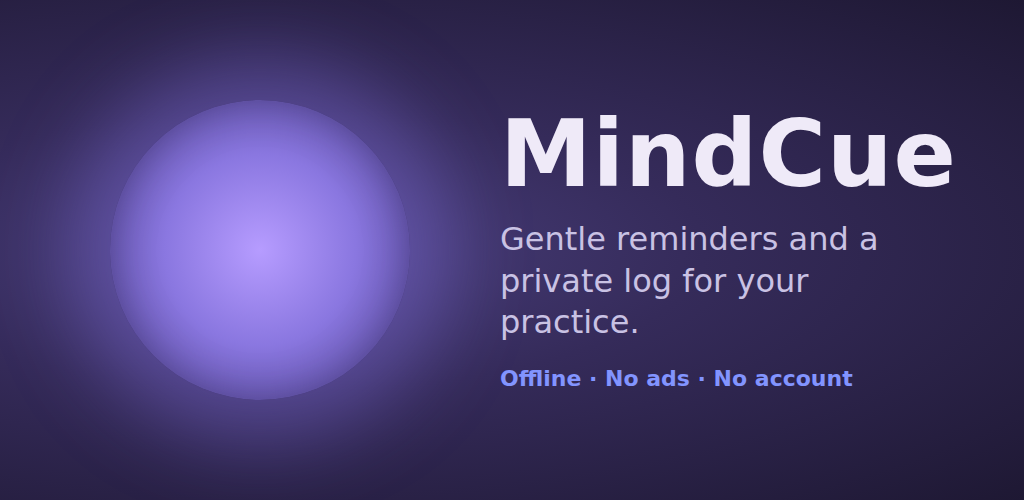
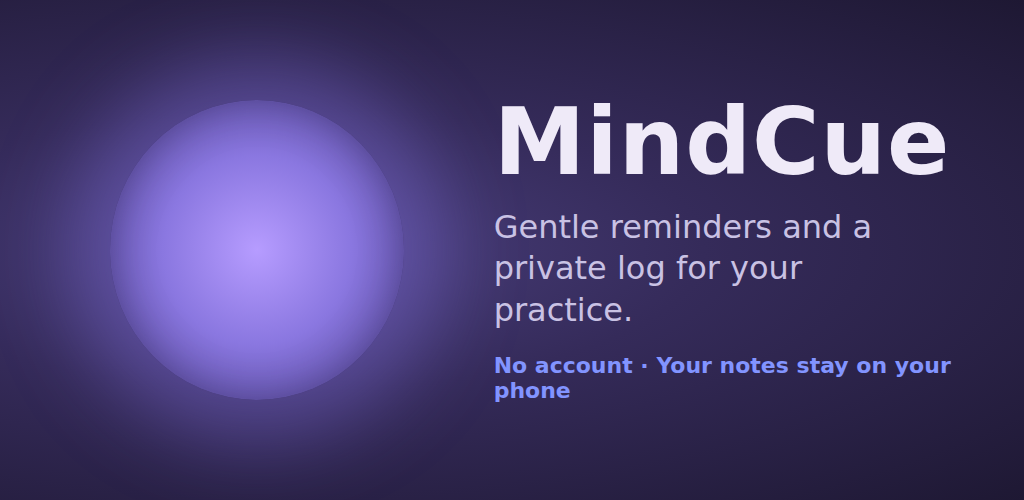
Ads for the Play build, purchase removes ads, privacy policy updated
* Ads for the Play build (AdMob banner on the Practice and Info lists, rewarded ad to open one advanced practice for a day); purchase removes ads; privacy policy and listing text updated

Claude-Session: https://claude.ai/code/session_01FQKSugdDMMnd2ED1RsEdQ3

* Real AdMob ids; the Play bundle turns test mode off by itself

Claude-Session: https://claude.ai/code/session_01FQKSugdDMMnd2ED1RsEdQ3

---------

Changed region(s): [[0.4688, 0.42, 0.875, 0.69], [0.4688, 0.21, 0.9375, 0.39], [0.4688, 0.72, 0.9375, 0.81]]

diff --git a/docs/app.js b/docs/app.js
@@ -1,12 +1,12 @@
 import { CATS, EXERCISES, MILESTONES, exById, CHAKRAS, CHAKRA_INTRO, CYCLES, REMIND_GROUPS, CAT_LABEL, REMIND_DEFAULTS, NUDGES, PING, SCALE, SCALE_UP } from './content.js';
 import * as native from './native.js';
 import { BUILD } from './build.js';
-import { PAYWALL } from './config.js';
+import { PAYWALL, ADS, ADMOB } from './config.js';
 
 /* ---------------- storage ---------------- */
 const KEY = 'mindful-v2';
 const clone = (o) => JSON.parse(JSON.stringify(o)); // older phone web engines lack structuredClone
-const fresh = () => ({ rem: clone(REMIND_DEFAULTS), milestones: {}, sessions: [], recalls: [], tally: {}, days: {}, unlocked: false, tourSeen: false, fast: { on: false, days: 3, start: '', done: {} }, scale: [], wheels: [], loops: {} });
+const fresh = () => ({ rem: clone(REMIND_DEFAULTS), milestones: {}, sessions: [], recalls: [], tally: {}, days: {}, unlocked: false, tourSeen: false, adPass: null, fast: { on: false, days: 3, start: '', done: {} }, scale: [], wheels: [], loops: {} });
 let S;
 try { S = { ...fresh(), ...JSON.parse(localStorage.getItem(KEY) || '{}') }; } catch (e) { S = fresh(); }
 // Brings saved settings (including older versions' shapes) up to the current shape.
@@ -98,7 +98,9 @@ const catCount = (gid, day = dayKey()) => {
 };
 const catDone = (gid, day = dayKey()) => catCount(gid, day) >= S.rem.cat[gid].goal;
 const canLeave = () => native.isNative && !!S.rem.home;
-const locked = (id) => PAYWALL && !S.unlocked && !!exById[id]?.premium; // advanced teachings in a store build, until unlocked
+const adsOn = () => ADS && native.isNative && !S.unlocked; // ads only in the store build, and never after the purchase
+const passed = (id) => !!S.adPass && S.adPass.day === dayKey() && S.adPass.ids.includes(id); // opened for today by watching an ad
+const locked = (id) => PAYWALL && !S.unlocked && !!exById[id]?.premium && !passed(id); // advanced teachings in a store build, until unlocked
 const schedEx = (gid) => S.rem.cat[gid].ex.filter((id) => group(gid).pool.includes(id) && !locked(id)); // exercises that ring at scheduled times (not leave-home ones)
 const choosing = (gid) => !S.rem.cat[gid].random && schedEx(gid).length > 1; // several to do: the reminder opens the list
 const todayPick = (gid) => (schedEx(gid).length ? planned(gid) : S.rem.cat[gid].ex[0]);
@@ -386,7 +388,7 @@ function Tour() {
   ${sec('Info', 'Reading, not doing: the universal laws, the Do\'s and Don\'ts, supporting habits, life cycles, the chakra reference, and the credits.')}
   ${sec('Settings', 'Where you set it up your way. Choose which exercises count as goals for each area, how many reminders you want and when, the leave-home reminders, the funk playlist, the mindfulness sayings, and your backup. The small <b>Log</b> button in the top right corner opens your log.')}
   ${sec('Log', '<b>Entries</b> are your notes and recalls. <b>Days</b> is one button per day showing what you finished, what you did not, and your notes. <b>Progress</b> shows your streak and trends.')}
-  ${sec('Private by design', 'Everything stays on your phone. There is no account, no ads, and nothing is sent anywhere. It works offline.')}`;
+  ${sec('Private by design', 'Your notes, logs and goals stay on your phone. There is no account. The free Play Store version shows a few ads on the Practice and Info lists (a one-time purchase removes them and unlocks the advanced teachings); your own entries are never sent to anyone.')}`;
 }
 function Info() {
   const ids = ['live-dos', 'energy-habits'].map((id) => exById[id]).map((e) => link(`#ex/${e.id}`, `<b>${esc(e.title)}</b><div class="dim sm">${esc(e.summary)}</div>`)).join('');
@@ -398,16 +400,18 @@ function Info() {
   ${link('#chakras', '<b>Chakra reference</b><div class="dim sm">Seven chakras, seed sounds, glands</div>')}
   ${link('#about', '<b>Credits</b><div class="dim sm">With gratitude</div>')}`;
 }
-function Unlock() {
+function Unlock(id) {
+  const ex = exById[id];
   return `${back('#practice')}<h1>Unlock the advanced teachings</h1>
-  ${card('<div class="step" style="font-size:17px">One purchase, once, no subscription. It opens the Psychic centers, the chakra meditations, the Inner journeys (including the past-life journey), and the projections (astral).<br><br>Everything else in MindCue stays free.</div>', 'accent')}
-  <button class="btn" data-act="buyunlock">Unlock</button>
+  ${card('<div class="step" style="font-size:17px">One purchase, once, no subscription. It opens the Psychic centers, the chakra meditations, the Inner journeys (including the past-life journey), and the projections (astral), and it removes the ads.<br><br>Everything else in MindCue stays free.</div>', 'accent')}
+  <button class="btn" data-act="buyunlock">Unlock everything</button>
+  ${adsOn() && ex ? `<button class="btn ghost" data-act="watchad:${id}">Watch a short ad to open “${esc(ex.title)}” for today</button>` : ''}
   <button class="btn ghost" data-act="restoreunlock">Restore a purchase</button>
   <div id="msg" class="warn sm"></div>`;
 }
 const advOk = new Set(); let warnStep = 1;
 function Practice() {
-  const row = (e) => link(locked(e.id) ? '#unlock' : `#ex/${e.id}`, `<b>${locked(e.id) ? '🔒 ' : ''}${esc(e.title)}</b><div class="dim sm">${esc(e.freq)}</div>`);
+  const row = (e) => link(locked(e.id) ? `#unlock/${e.id}` : `#ex/${e.id}`, `<b>${locked(e.id) ? '🔒 ' : ''}${esc(e.title)}</b><div class="dim sm">${esc(e.freq)}</div>`);
   const ids = (list) => list.map((id) => exById[id]).filter(Boolean).map(row).join('');
   const cats = (cat, skip = []) => EXERCISES.filter((e) => e.cat === cat && !e.hidden && !skip.includes(e.id)).map(row).join('');
   const sub = (label, inner) => (inner ? `<h3>${label}</h3>${inner}` : '');
@@ -693,9 +697,9 @@ function paint() {
     case 'practice': h = Practice(); break;
     case 'info': h = Info(); break;
     case 'tour': S.tourSeen = true; save(); h = Tour(); break;
-    case 'ex': h = locked(a) ? Unlock() : exById[a] && exById[a].advanced && !advOk.has(a) ? Warn(a) : Exercise(a); break;
-    case 'unlock': h = Unlock(); break;
-    case 'guide': if (locked(a)) { h = Unlock(); break; } if (!G || G.ex.id !== a) { if (exById[a]) startGuide(a); } h = Guide(); break;
+    case 'ex': h = locked(a) ? Unlock(a) : exById[a] && exById[a].advanced && !advOk.has(a) ? Warn(a) : Exercise(a); break;
+    case 'unlock': h = Unlock(a); break;
+    case 'guide': if (locked(a)) { h = Unlock(a); break; } if (!G || G.ex.id !== a) { if (exById[a]) startGuide(a); } h = Guide(); break;
     case 'log': h = Log(); break;
     case 'note': h = NoteForm(a); break;
     case 'recall': h = RecallForm(); break;
@@ -715,6 +719,7 @@ function paint() {
   const tab = ['today', 'practice', 'info', 'settings'].includes(route) ? route : route === 'cat' ? 'today' : route === 'tour' || route === 'laws' || route === 'chakras' || route === 'cycles' || route === 'about' || (route === 'ex' && ['live-dos', 'energy-habits'].includes(a)) ? 'info' : route === 'ex' || route === 'unlock' || route === 'scale' || route === 'wheel' || route === 'guide' ? 'practice' : 'settings'; // Log, notes and day pages are reached from Settings
   document.querySelectorAll('#tabs a').forEach((el) => el.classList.toggle('on', el.dataset.tab === tab));
   const rs = $('#restore'); if (rs) rs.onchange = restore;
+  if (adsOn() && ['practice', 'info'].includes(route)) { $('#view').insertAdjacentHTML('beforeend', '<div style="height:70px"></div>'); native.showBanner(ADMOB, 56); } else native.hideBanner(); // a banner only on the Practice and Info lists, never during practice
   window.scrollTo(0, 0);
 }
 function repaintKeep() { const y = window.scrollY; paint(); window.scrollTo(0, y); }
@@ -800,7 +805,8 @@ document.addEventListener('click', async (e) => {
     case 'wload': wh = JSON.parse(JSON.stringify(S.wheels.find((w) => w.id === a))); paint(); break;
     case 'wdel': if (confirm('Delete this wheel?')) { S.wheels = S.wheels.filter((w) => w.id !== a); if (wh && wh.id === a) wh = null; save(); repaintKeep(); } break;
     case 'tourhide': S.tourSeen = true; save(); repaintKeep(); break;
-    case 'buyunlock': try { await native.buyUnlock(); S.unlocked = true; save(); location.hash = '#practice'; } catch (err) { msg("Purchases aren't switched on yet."); } break;
+    case 'watchad': try { await native.rewardedAd(ADMOB); const t = S.adPass && S.adPass.day === dayKey() ? S.adPass : { day: dayKey(), ids: [] }; if (!t.ids.includes(a)) t.ids.push(a); S.adPass = t; save(); location.hash = `#ex/${a}`; } catch (err) { msg("The ad could not play right now. Check your connection and try again, or watch it to the end."); } break;
+    case 'buyunlock': try { await native.buyUnlock(); S.unlocked = true; save(); native.hideBanner(); location.hash = '#practice'; } catch (err) { msg("Purchases aren't switched on yet."); } break;
     case 'restoreunlock': try { await native.restoreUnlock(); S.unlocked = true; save(); location.hash = '#practice'; } catch (err) { msg("Nothing to restore yet."); } break;
     case 'warn1': warnStep = 2; paint(); break;
     case 'warn2': advOk.add(a); warnStep = 1; paint(); break;

diff --git a/docs/privacy.html b/docs/privacy.html
@@ -5,9 +5,14 @@
 <body>
 <h1>MindCue privacy policy</h1>
 <p>Last updated: October 2026</p>
-<p>MindCue is a reminder and journal app for mindfulness practice. <b>It collects no data about you.</b> It has no accounts, no ads, no analytics, and it never sends anything to a server. The app does not use the internet.</p>
+<p>MindCue is a reminder and journal app for mindfulness practice. <b>We, the developer, receive none of your data.</b> There are no accounts, and your notes, logs and settings never leave your phone.</p>
 <h2>What stays on your phone</h2>
-<p>Your settings, notes, evening recalls and daily history are saved only inside the app on your phone. If you delete the app or clear its data, they are gone. We cannot see or recover them.</p>
+<p>Your goals, notes, evening recalls, daily history and settings are saved only inside the app on your phone. If you delete the app or clear its data, they are gone. We cannot see or recover them.</p>
+<h2>Ads (Google Play version, free tier)</h2>
+<p>The free version of MindCue on Google Play shows ads, served by <b>Google AdMob</b>. To show ads, Google and its ad partners may collect and use your device's <b>advertising ID</b>, IP address, and device and app-usage information, and may use cookies or similar technology. We do not give Google your notes, logs, goals or location, and the ad service does not receive them from us. In Europe and the UK the app first asks for your consent. You can change your choice, or reset or turn off personalized ads, in your phone's Settings → Google → Ads. See <a href="https://policies.google.com/technologies/ads">Google's advertising policy</a> and <a href="https://policies.google.com/privacy">privacy policy</a>.</p>
+<p>The one-time purchase that unlocks the advanced teachings also removes the ads. The copy of MindCue you download directly from our website contains no ads and sends nothing anywhere.</p>
+<h2>Purchases</h2>
+<p>Purchases are handled entirely by Google Play. We do not see your payment details.</p>
 <h2>Location</h2>
 <p>If you turn on the "when you leave home" reminders, the app saves the spot where you tapped <i>Set my home here</i> on your phone. It asks your phone's built-in geofencing service to tell it when you leave that area, which is why Android asks for location "all the time". Your location is never sent anywhere, never shared, and not kept as a history. You can switch this off at any time in Settings.</p>
 <h2>Notifications and alarms</h2>
@@ -15,7 +20,7 @@
 <h2>Backups</h2>
 <p>The backup button in Settings makes a file only when you press it. Where it goes (for example your own email or cloud drive) is up to you.</p>
 <h2>Children</h2>
-<p>The app is not directed to children and collects nothing from anyone.</p>
+<p>The app is not directed to children under 13 and we do not knowingly collect anything from them.</p>
 <h2>Not medical care</h2>
 <p>MindCue supports a practice. It is not medical care and does not replace a counselor or doctor.</p>
 <h2>Contact</h2>

diff --git a/share/landing/privacy.html b/share/landing/privacy.html
@@ -5,9 +5,14 @@
 <body>
 <h1>MindCue privacy policy</h1>
 <p>Last updated: October 2026</p>
-<p>MindCue is a reminder and journal app for mindfulness practice. <b>It collects no data about you.</b> It has no accounts, no ads, no analytics, and it never sends anything to a server. The app does not use the internet.</p>
+<p>MindCue is a reminder and journal app for mindfulness practice. <b>We, the developer, receive none of your data.</b> There are no accounts, and your notes, logs and settings never leave your phone.</p>
 <h2>What stays on your phone</h2>
-<p>Your settings, notes, evening recalls and daily history are saved only inside the app on your phone. If you delete the app or clear its data, they are gone. We cannot see or recover them.</p>
+<p>Your goals, notes, evening recalls, daily history and settings are saved only inside the app on your phone. If you delete the app or clear its data, they are gone. We cannot see or recover them.</p>
+<h2>Ads (Google Play version, free tier)</h2>
+<p>The free version of MindCue on Google Play shows ads, served by <b>Google AdMob</b>. To show ads, Google and its ad partners may collect and use your device's <b>advertising ID</b>, IP address, and device and app-usage information, and may use cookies or similar technology. We do not give Google your notes, logs, goals or location, and the ad service does not receive them from us. In Europe and the UK the app first asks for your consent. You can change your choice, or reset or turn off personalized ads, in your phone's Settings → Google → Ads. See <a href="https://policies.google.com/technologies/ads">Google's advertising policy</a> and <a href="https://policies.google.com/privacy">privacy policy</a>.</p>
+<p>The one-time purchase that unlocks the advanced teachings also removes the ads. The copy of MindCue you download directly from our website contains no ads and sends nothing anywhere.</p>
+<h2>Purchases</h2>
+<p>Purchases are handled entirely by Google Play. We do not see your payment details.</p>
 <h2>Location</h2>
 <p>If you turn on the "when you leave home" reminders, the app saves the spot where you tapped <i>Set my home here</i> on your phone. It asks your phone's built-in geofencing service to tell it when you leave that area, which is why Android asks for location "all the time". Your location is never sent anywhere, never shared, and not kept as a history. You can switch this off at any time in Settings.</p>
 <h2>Notifications and alarms</h2>
@@ -15,7 +20,7 @@
 <h2>Backups</h2>
 <p>The backup button in Settings makes a file only when you press it. Where it goes (for example your own email or cloud drive) is up to you.</p>
 <h2>Children</h2>
-<p>The app is not directed to children and collects nothing from anyone.</p>
+<p>The app is not directed to children under 13 and we do not knowingly collect anything from them.</p>
 <h2>Not medical care</h2>
 <p>MindCue supports a practice. It is not medical care and does not replace a counselor or doctor.</p>
 <h2>Contact</h2>

diff --git a/docs/native.js b/docs/native.js
@@ -5,6 +5,7 @@ export const isNative = !!cap?.isNativePlatform?.() && typeof cap.registerPlugin
 const LN = isNative ? cap.registerPlugin('LocalNotifications') : null;
 const BG = isNative ? cap.registerPlugin('BackgroundGeolocation') : null;
 const FENCE = isNative ? cap.registerPlugin('LeaveFence') : null;
+const AD = isNative ? cap.registerPlugin('AdMob') : null;
 export const isIOS = isNative && cap.getPlatform?.() === 'ios';
 
 // Notification buttons on exercise reminders.
@@ -92,3 +93,41 @@ export function onRoute(fn) {
 // One-time "unlock the advanced teachings" purchase. The store billing is hooked up here when the app is published.
 export async function buyUnlock() { throw new Error('not-ready'); }
 export async function restoreUnlock() { throw new Error('not-ready'); }
+
+/* ---------- ads (Play build only, and never for people who bought the unlock) ---------- */
+let adReady = null;
+export function initAds(cfg) {
+  if (!AD) return Promise.resolve(false);
+  if (!adReady) adReady = (async () => {
+    try {
+      const info = await AD.requestConsentInfo(); // the EU / UK consent form, when it is required
+      if (info.isConsentFormAvailable && info.status === 'REQUIRED') await AD.showConsentForm();
+      await AD.initialize({ initializeForTesting: !!cfg.isTesting });
+      return true;
+    } catch (e) { return false; }
+  })();
+  return adReady;
+}
+export async function showBanner(cfg, margin) {
+  if (!(await initAds(cfg))) return;
+  try { await AD.showBanner({ adId: cfg.banner, adSize: 'ADAPTIVE_BANNER', position: 'BOTTOM_CENTER', margin, isTesting: !!cfg.isTesting }); } catch (e) {}
+}
+export async function hideBanner() {
+  if (!AD || !adReady) return;
+  try { await AD.removeBanner(); } catch (e) {}
+}
+// Resolves when the person watched the ad to the end; rejects if it could not play or was closed early.
+export async function rewardedAd(cfg) {
+  if (!(await initAds(cfg))) throw new Error('ads-unavailable');
+  await AD.prepareRewardVideoAd({ adId: cfg.rewarded, isTesting: !!cfg.isTesting });
+  let earned = false;
+  const a = await AD.addListener('onRewardedVideoAdReward', () => { earned = true; });
+  try {
+    await new Promise(async (resolve, reject) => {
+      const b = await AD.addListener('onRewardedVideoAdDismissed', () => { b.remove(); resolve(); });
+      try { await AD.showRewardVideoAd(); } catch (e) { b.remove(); reject(e); }
+    });
+  } finally { a.remove(); }
+  if (!earned) throw new Error('closed-early');
+  return true;
+}

diff --git a/ios/App/CapApp-SPM/Package.swift b/ios/App/CapApp-SPM/Package.swift
@@ -12,6 +12,7 @@ let package = Package(
     ],
     dependencies: [
         .package(url: "https://github.com/ionic-team/capacitor-swift-pm.git", exact: "8.5.3"),
+        .package(name: "CapacitorCommunityAdmob", path: "../../../node_modules/@capacitor-community/admob"),
         .package(name: "CapacitorCommunityBackgroundGeolocation", path: "../../../node_modules/@capacitor-community/background-geolocation"),
         .package(name: "CapacitorLocalNotifications", path: "../../../node_modules/@capacitor/local-notifications")
     ],
@@ -21,6 +22,7 @@ let package = Package(
             dependencies: [
                 .product(name: "Capacitor", package: "capacitor-swift-pm"),
                 .product(name: "Cordova", package: "capacitor-swift-pm"),
+                .product(name: "CapacitorCommunityAdmob", package: "CapacitorCommunityAdmob"),
                 .product(name: "CapacitorCommunityBackgroundGeolocation", package: "CapacitorCommunityBackgroundGeolocation"),
                 .product(name: "CapacitorLocalNotifications", package: "CapacitorLocalNotifications")
             ]

diff --git a/docs/config.js b/docs/config.js
@@ -1,2 +1,10 @@
-// Switched on only in the store (Play / App Store) builds. The free download from the landing page leaves it off.
-export const PAYWALL = false;
+// Switched on only in the store (Play / App Store) builds. The free download from the landing page leaves both off.
+export const PAYWALL = false; // locks the advanced teachings until a one-time purchase
+export const ADS = false; // shows ads to people who have not bought the unlock
+
+// Your real AdMob ad unit ids. (The AdMob app id is in android/app/src/main/res/values/strings.xml.)
+export const ADMOB = {
+  banner: 'ca-app-pub-3228808449104650/3059916711',
+  rewarded: 'ca-app-pub-3228808449104650/3266221263',
+  isTesting: true, // keep true here: the Play bundle build switches it to false automatically, so no test ads reach real users
+};

diff --git a/share/landing/index.html b/share/landing/index.html
@@ -25,5 +25,5 @@ b{color:#fff}.warn{border:2px solid var(--peri)}.foot{color:var(--dim);font-size
 </ol>
 <p>Then open MindCue and tap <b>Allow notifications</b>. That's how it reminds you.</p>
 <p>Updating? Download again and install it the same way. Your notes and settings stay.</p>
-<p class="foot">MindCue supports a practice. It is not medical care and does not replace a counselor or doctor.<br><a href="privacy.html">Privacy: it collects nothing</a> · Support: <a href="mailto:lyakgodzilla@gmail.com">lyakgodzilla@gmail.com</a></p>
+<p class="foot">MindCue supports a practice. It is not medical care and does not replace a counselor or doctor.<br><a href="privacy.html">Privacy policy</a> · Support: <a href="mailto:lyakgodzilla@gmail.com">lyakgodzilla@gmail.com</a></p>
 </main></body></html>

diff --git a/docs/sw.js b/docs/sw.js
@@ -1,4 +1,4 @@
-const V = 'mindcue-v13';
+const V = 'mindcue-v14';
 const FILES = ['./', 'index.html', 'style.css', 'app.js', 'content.js', 'native.js', 'build.js', 'capacitor.js', 'manifest.webmanifest', 'icon-192.png', 'icon-512.png'];
 
 self.addEventListener('install', (e) => {

diff --git a/share/play-store-steps.md b/share/play-store-steps.md
@@ -37,7 +37,7 @@ MindCue helps you build a daily mindfulness and meditation practice, privately.
 • A library of guided practices: meditation, observation and concentration exercises, emotional tools, bedtime practices, energy and healing, and more. Gentle timers and an optional buzz keep you on track.
 • Climb the Scale and the Focus Wheel for working with how you feel.
 • A private log: notes, evening recall, and a history of every day.
-• Works fully offline. No account. No ads. No tracking. Everything stays on your phone.
+• No account. Your notes, logs and goals stay on your phone. The free version shows a few ads on the Practice and Info lists; one purchase removes them and unlocks the advanced teachings.
 
 MindCue supports a practice. It is not medical care and does not replace a counselor or doctor.
 ```
@@ -48,11 +48,11 @@ MindCue supports a practice. It is not medical care and does not replace a couns
 Use the page already in this repository: `docs/privacy.html` (publish it on your landing page). Paste its **public web address** into **Policy → App content → Privacy policy**.
 
 ## 5. App content (Policy → App content) — answer these
-- **Ads:** No.
+- **Ads:** **Yes**, the app contains ads (AdMob). Turn on the **Advertising ID** declaration too (App content → Advertising ID → Yes, used for advertising).
 - **App access:** All functionality is available without special access (once the lock is on, the advanced teachings need the one-time unlock; say that in the notes).
 - **Target audience:** 18 and over. Not for children.
 - **Content rating:** answer the questionnaire honestly: no violence, no user-generated content shared, no gambling. It should rate for everyone.
-- **Data safety:** **Does your app collect or share any user data? No.** Then **Is all of the user data encrypted in transit? n/a**, and **Do you provide a way to delete data? Users can delete data by clearing it in-app or uninstalling.** Location is used on the device only and never sent anywhere, so it is not "collected" in Google's sense, but if the form asks about location, say it is processed on-device only.
+- **Data safety:** with ads on, answer **Yes, the app collects or shares data**, and then list what AdMob collects: **Device or other IDs** (advertising ID), and **App activity / Diagnostics** if the form shows them, each **shared with a third party (Google)** for **Advertising or marketing**; mark it as not optional for the free version. Your own notes, logs and goals are never collected. Location is used on the device only and never sent anywhere. Say data is encrypted in transit. Say users can request deletion (they can clear the app's data or uninstall). Check the AdMob policy page for the exact list, because Google updates it.
 - **Health apps declaration:** if it asks, choose the option that matches wellness / stress management, not medical.
 - **Government / financial / news:** No.
 
@@ -61,9 +61,19 @@ Use the page already in this repository: `docs/privacy.html` (publish it on your
 - **Exact alarms** (reminders at exact times): reason: "Meditation reminders at times the user chooses."
 - **Notifications:** normal.
 
+## 6½. AdMob (ads) — do this before going public
+1. Go to admob.google.com and sign in with the same Google account. Accept the terms.
+2. **Apps → Add app.** Choose Android, say the app is **not yet published** (you can link it to Play later), name it MindCue. Copy the **App ID** (it looks like `ca-app-pub-1234567890123456~1234567890`).
+3. In the app, make two ad units: **Banner** (name "Lists banner") and **Rewarded** (name "Unlock one practice"). Copy each **Ad unit ID** (`ca-app-pub-…/…`).
+4. Under **Payments**, add your payment details and tax info so you can be paid.
+5. **Done:** your real App ID and the two ad unit IDs are in the app. The Play bundle build turns test mode off by itself, so real users get real ads.
+   **Protect your account:** never tap your own live ads. Before you test the Play build on your phone, add your phone as a **test device** in AdMob (Settings → Test devices), so your phone only gets test ads.
+6. After the app is live on Play, in AdMob **Apps → MindCue → App settings → Link to Google Play**, so the ads are tied to your store listing.
+7. Europe and the UK: in AdMob **Privacy & messaging**, create the consent message ("GDPR") and publish it. Without it, ads may not show there.
+
 ## 7. The one-time unlock (do this before going public)
 1. **Monetize → Products → In-app products → Create product.**
-2. **Product ID:** `advanced_unlock` (cannot change later). Name: "Advanced teachings". Description: "One-time purchase that unlocks the Psychic centers, chakra meditations, inner journeys and projections."
+2. **Product ID:** `advanced_unlock` (cannot change later). Name: "Advanced teachings". Description: "One-time purchase that unlocks the Psychic centers, chakra meditations, inner journeys and projections, and removes ads."
 3. **Price:** pick your one-time price. It is a **one-time** product (not a subscription). **Activate** it.
 4. You also need a **payments profile** (Monetize → Setup) if you haven't made one. It asks for your tax and bank details. Only you can do this.
 5. **[me]** Tell me the product ID and I will connect the Unlock and Restore buttons to Google Play Billing. I can't test a real purchase from here, so we test it with a license-testing Gmail (Setup → License testing) on the internal test.
